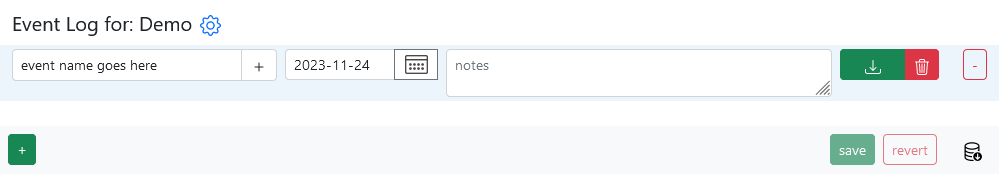
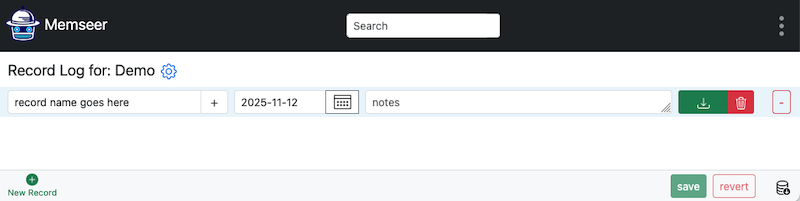
Update: file guide

diff --git a/docs/guides/files.md b/docs/guides/files.md
@@ -12,17 +12,17 @@ How to manage files
 {: .fs-6 .fw-300 }
 ---
 
-Memseer allows you to attach files to events. This is useful whenever you want to keep a document, receipt, photo, or some other important file in your records. Files are not limited to documents; you can store archives, binaries, and whatever else you need, as long as it is a single file.
+Memseer allows you to attach files to records. This is useful whenever you want to keep a document, receipt, medical record, photo, or some other important file in your records. Files are not limited to documents; you can store archives, binaries, and whatever else you need, as long as it is a single file.
 
 ---
 
 ## How to
 
-Navigate to an item and click on the name of the item.
+Navigate to a category and click on the name of the category.
 
-![](../../assets/images/guides/files/navigate_to_events.png)
+![](../../assets/images/guides/files/navigate_to_categories.png)
 
-Next, create a new event, give it a name.
+Next, click on “New Record” to create a new record, give it a name.
 
 ![](../../assets/images/guides/files/upload_button.png)
 
@@ -38,12 +38,12 @@ Now click on save, and the file will be uploaded and available for download (or 
           
 ---
 
-## Single File per Event
+## Single File per Record
 
-Currently, Memseer supports one file per one event — you can't have multiple files uploaded for the same event. If you have a need to upload multiple files, you have a couple of choices:
+Currently, Memseer supports one file per one record — you can't have multiple files uploaded for the same record. If you have a need to upload multiple files, you have a couple of choices:
 
 1. Collect and archive all the files into a single archive file, such as zip, and upload the file.
-2. Create multiple events and upload one file to each event.
+2. Create multiple records and upload one file to each record.
 
 If you have questions, suggestions, and/or feature requests, please give us your [feedback](../feedback.md).
 
